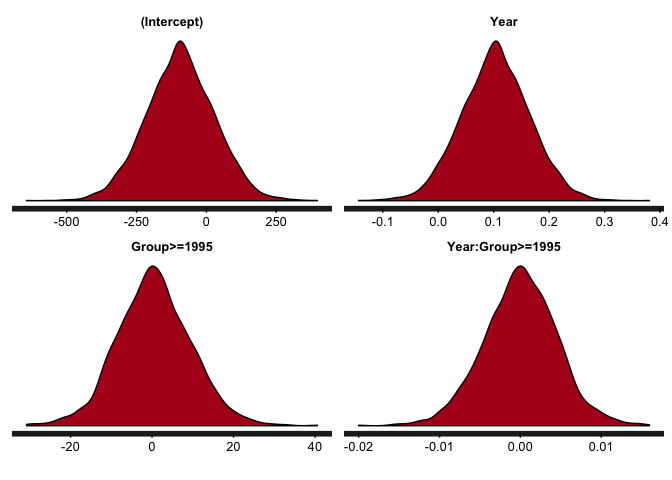
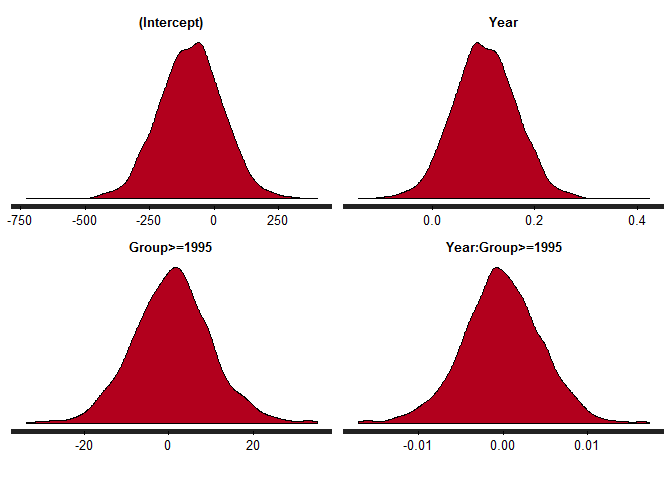
small edits

Changed region(s): [[0.0, 0.5, 1.0, 0.9375], [0.0, 0.0312, 1.0, 0.4688]]

diff --git a/analysis.md b/analysis.md
@@ -159,7 +159,7 @@ bf1 / bf2
 
     ## Bayes factor analysis
     ## --------------
-    ## [1] Year * Group : 1.242026 ±0.54%
+    ## [1] Year * Group : 1.243915 ±0.76%
     ## 
     ## Against denominator:
     ##   Age ~ Year 
@@ -196,9 +196,9 @@ bmdl <- stan_glm(Age~Year*Group, tbl,
     ## Chain 1, Iteration: 1600 / 2000 [ 80%]  (Sampling)
     ## Chain 1, Iteration: 1800 / 2000 [ 90%]  (Sampling)
     ## Chain 1, Iteration: 2000 / 2000 [100%]  (Sampling)
-    ##  Elapsed Time: 1.01314 seconds (Warm-up)
-    ##                1.01499 seconds (Sampling)
-    ##                2.02812 seconds (Total)
+    ##  Elapsed Time: 0.558 seconds (Warm-up)
+    ##                0.563 seconds (Sampling)
+    ##                1.121 seconds (Total)
     ## 
     ## 
     ## SAMPLING FOR MODEL 'continuous' NOW (CHAIN 2).
@@ -215,9 +215,9 @@ bmdl <- stan_glm(Age~Year*Group, tbl,
     ## Chain 2, Iteration: 1600 / 2000 [ 80%]  (Sampling)
     ## Chain 2, Iteration: 1800 / 2000 [ 90%]  (Sampling)
     ## Chain 2, Iteration: 2000 / 2000 [100%]  (Sampling)
-    ##  Elapsed Time: 1.15534 seconds (Warm-up)
-    ##                1.04143 seconds (Sampling)
-    ##                2.19677 seconds (Total)
+    ##  Elapsed Time: 0.569 seconds (Warm-up)
+    ##                0.558 seconds (Sampling)
+    ##                1.127 seconds (Total)
     ## 
     ## 
     ## SAMPLING FOR MODEL 'continuous' NOW (CHAIN 3).
@@ -234,9 +234,9 @@ bmdl <- stan_glm(Age~Year*Group, tbl,
     ## Chain 3, Iteration: 1600 / 2000 [ 80%]  (Sampling)
     ## Chain 3, Iteration: 1800 / 2000 [ 90%]  (Sampling)
     ## Chain 3, Iteration: 2000 / 2000 [100%]  (Sampling)
-    ##  Elapsed Time: 0.956411 seconds (Warm-up)
-    ##                0.965434 seconds (Sampling)
-    ##                1.92185 seconds (Total)
+    ##  Elapsed Time: 0.606 seconds (Warm-up)
+    ##                0.61 seconds (Sampling)
+    ##                1.216 seconds (Total)
     ## 
     ## 
     ## SAMPLING FOR MODEL 'continuous' NOW (CHAIN 4).
@@ -253,9 +253,9 @@ bmdl <- stan_glm(Age~Year*Group, tbl,
     ## Chain 4, Iteration: 1600 / 2000 [ 80%]  (Sampling)
     ## Chain 4, Iteration: 1800 / 2000 [ 90%]  (Sampling)
     ## Chain 4, Iteration: 2000 / 2000 [100%]  (Sampling)
-    ##  Elapsed Time: 1.02202 seconds (Warm-up)
-    ##                1.18632 seconds (Sampling)
-    ##                2.20833 seconds (Total)
+    ##  Elapsed Time: 0.635 seconds (Warm-up)
+    ##                0.574 seconds (Sampling)
+    ##                1.209 seconds (Total)
 
 We can summarize the fitted model and plot the posterior density over the parameters:
 
@@ -274,9 +274,9 @@ bmdl
     ## 
     ## Estimates:
     ##                  Median MAD_SD
-    ## (Intercept)      -93.7  119.4 
+    ## (Intercept)      -88.0  121.7 
     ## Year               0.1    0.1 
-    ## Group>=1995        0.4    8.9 
+    ## Group>=1995        0.9    8.8 
     ## Year:Group>=1995   0.0    0.0 
     ## sigma              2.2    0.3 
     ## 
@@ -287,7 +287,7 @@ bmdl
     ## 
     ## Observations: 33  Number of unconstrained parameters: 5
 
-Comparing the fitted model to the frequentist models above shows that the posterior median of the linear effect of Year (0.104) is similar to the estimated value above (0.153), but shrunken towards zero by the prior. The posterior density on the interaction term is centered around zero during inference, arguing that there is little evidence of a different slope after 1995. There is a small effect of the interaction term on the y-intercept, increasing the estimated y-intercept by 900. This is likely an artefact of the model parametrization.
+Comparing the fitted model to the frequentist models above shows that the posterior median of the linear effect of Year (0.101) is similar to the estimated value above (0.153), but shrunken towards zero by the prior. The posterior density on the interaction term is centered around zero during inference, arguing that there is little evidence of a different slope after 1995. There is a small effect of the interaction term on the y-intercept, increasing the estimated y-intercept by 900. This is likely an artefact of the model parametrization.
 
 ``` r
 draws <- as.data.frame(as.matrix(bmdl))

diff --git a/README.md b/README.md
@@ -1,6 +1,8 @@
 # lifespan
 Re-analysis of data from Dong et al.: [Evidence for a limit to human lifespan] (http://www.nature.com/nature/journal/vaop/ncurrent/full/nature19793.html)
 
+[Philipp Berens](http://www.berenslab.org) and [Tom Wallis](http://tomwallis.info)
+
 In their paper, Dong et al. claim to provide statistical evidence for an absolute limit to human lifespan. Here I re-analyze the data from one of their central figures and show that it is not suitable to decise between a model where maximum age at death keeps linearly increasing and one where it saturates or declines. 
 
 For a detailed analysis, see my [R report}(analysis.md).
